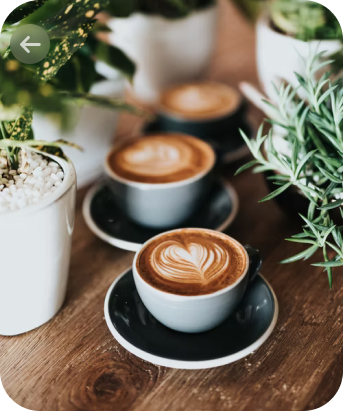
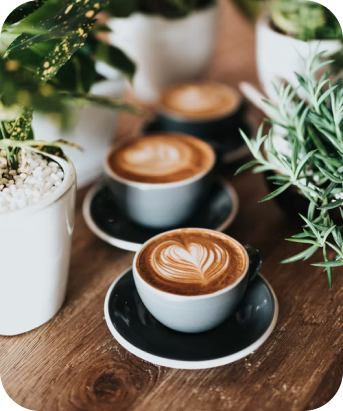
Arrow Back Route Picture

Changed region(s): [[0.0292, 0.0584, 0.1458, 0.1752]]

diff --git a/src/components/Products/Product/Product.js b/src/components/Products/Product/Product.js
@@ -1,11 +1,14 @@
 import React from "react";
 import "./Product.css";
 import Coffee1Big from "../../../views/CoffeeImage1Big.png";
+import ArrowBack from "../../../views/ArrowBackVector.png";
 
 const Product = () => {
   return (
     <div className="Product">
-      <img src={Coffee1Big} alt="CoffeeImage" />
+      <img src={Coffee1Big} alt="CoffeeImage" className="BigPicture" />
+      <img src={ArrowBack} alt="ArrowBack" className="ArrowBack" />
+
       <div className="NameAndDesc">
         <span className="ProductName">Cappuccino</span>
         <span className="ProductDetails">Drizzled with Caramel</span>

diff --git a/src/components/Products/Product/Product.css b/src/components/Products/Product/Product.css
@@ -14,14 +14,26 @@
 
 /* Product Image */
 
-.Product img {
+.Product .BigPicture {
   /* position: absolute; */
-  margin-top: 1rem;
   width: 343px;
-  height: 411px;
+  height: 391px;
   left: 16px;
-  top: 16px;
+  top: 36px;
+  margin: 10px 0px -20px 0px;
+  border-radius: 40px;
   /* border: solid blue 1px; */
+}
+
+/*  Arrow Back Route */
+
+.Product .ArrowBack {
+  position: relative;
+  width: 40px;
+  height: 40px;
+  left: -136px;
+  top: -360px;
+  cursor: pointer;
 }
 
 /* Product Name & Description */
